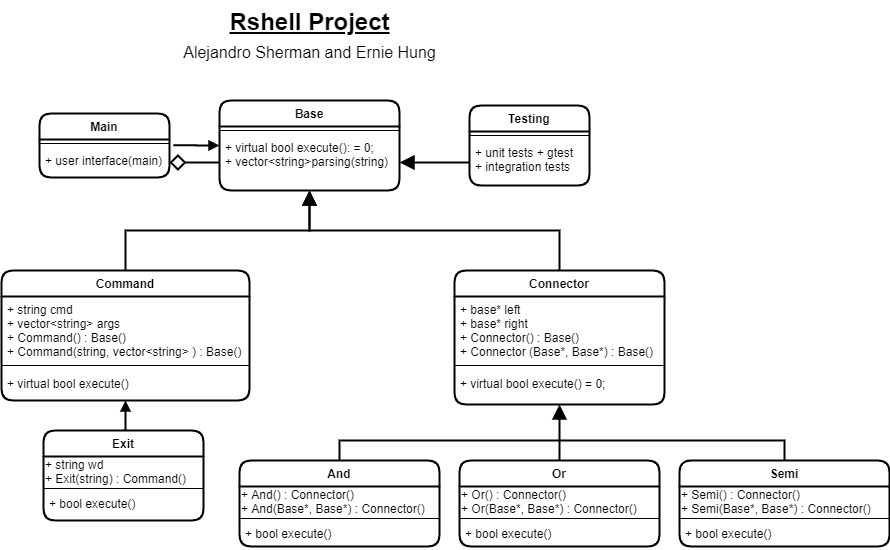
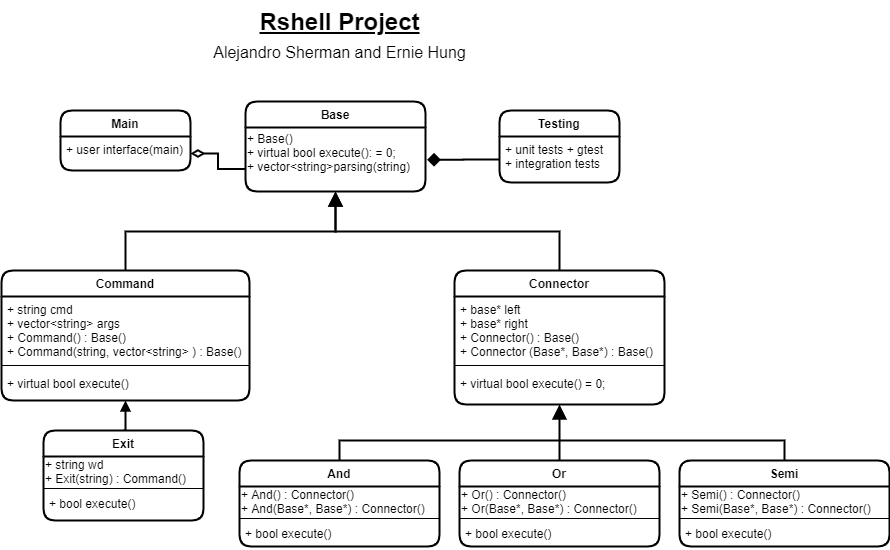
Updated readme and diagram

Changed region(s): [[0.0303, 0.1545, 0.6978, 0.4327], [0.2124, 0.0, 0.5157, 0.1236]]

diff --git a/README.md b/README.md
@@ -2,90 +2,93 @@
 > Winter 2020 - Alejandro Sherman (862062898) and Ernie Hung (862153636)
 
 ## Introduction
-Our project is the implementation of a basic command shell, complete with a user interface, and functionality of certain commands and connectors. The shell will allow for the use of standard commands after they are input by a user, such as `exit`, as well as the use of three connectors that allow users to execute multiple commands at once. These connectors are "||" (or), "&&" (and), and ";" (semi). The composite design pattern will be utilized to implement the commands and the connectors. The project will be created in C++ and features will be implemented using C++ classes and functions.
+Our project is the implementation of a basic command shell, complete with a user interface, and functionality of certain commands and connectors. The shell allows for the use of standard commands after they are input by a user, such as `exit`, as well as the use of three connectors that allow users to execute multiple commands at once. These connectors are "||" (or), "&&" (and), and ";" (semi). The composite design pattern was utilized to implement the commands and the connectors, both inheriting from the base class, and each being superclasses of their own. The project is made in C++ and features have been implemented using C++ classes and functions.
 
 ## Diagram
 ![OMT_Diagram]()
 
 ## Classes
-### user.cpp
+### main.cpp
 The area that the user interacts with when they use the shell
 
+* `#includes` all the other classes from the header folder
 * displays the command prompt `guest@rshell:~$`
-* takes the user input and sends it where it needs to go
-* `echo()` : prints the input back to the user
-* `execute()` : a self designed function that performs the desired task
+* takes the user input and executes it according to the general Linux shell functionality
+* user's input is echoed as they type it
 
 ### base.h
-A class that other frameworks build off of
+A class that other frameworks build off of, an abstract base class
 
-* comprised of virtual functions as the class is meant to be used as a superclass
-* `parse()` : parses user input using tokens
-* parse can be rewritten by other classes, but is optional
-* `execute()` : a pure virtual function as every subclass must implement it's own execute function
+* `Base()` : simple constructor
+* comprised of a virtual function and a pure virtual function
+* class is designed to be a superclass only
+* `parsing(string)` : takes user input as a string, parses it, and returns a vector of string tokens
+* subsequent classes inherit parsing
+* any input following pound: `#` are ignored in parsing
+* `execute() = 0;` : a pure virtual function as every subclass must implement it's own execute function
 
-### test.cpp
-A preliminary test of the later `execute` functions and the base class's parse function
+### Testing
+Less of a class, and more of a representation of the testing frameworks used
 
-* `parse()` : inherited from base
-* `execute()` : can be changed to fit various tests
+* `unit_tests` : individually designed tests made to test specific functions program and ran together using the google test submodule
+* `integration_tests` : I/O tests that test the overall combined functionality of the completed program and has a suite of tests each focusing on a certain combination of features
 
 ### command.h
-A class that commands specialize from
+A class that creates and executes commands, and allows for the special command `exit` to inherit from
 
-* utilizes a vector of strings to determine what valid command is to be invoked
-* `Command()` : command constructor
-* `execute()` : a self designed function that performs the desired task
-* `parse()` : a parse function for use specifically in the command architecture
+* Commands are created in the main using the format `new Command(string, vector<strings)`
+* `Command() : Base()` + `Command(string, vector<string> ) : Base()`: command constructors
+* On construction the command is passed in as a string, and the arguments are passed in as a vector of strings
+* `execute()` : creates a fork and attempts to execute the command, if succeeds returns true, and returns false otherwise
+* `parsing(string)` : inherited from the base class
 
 ### connector.h
 A class that connectors specialize from
 
 * utilizes two objects of the base class to account for a left and right of the operator
-* `Connector (Base*, Base*) : Base()` : connector constructor
-* `execute()` : a self designed function that performs the desired task
-* `parse()` : a parse function for use specifically in the connector architecture
+* `Connector() : Base()` + `Connector (Base*, Base*) : Base()` : connector constructors
+* `execute() = 0;` : redeclared as a pure virtual function so that every operator that inherits from this class must define it's own execute
 
-### exit.cpp
+
+### exit.h
 A self designed rshell command to exit the rshell
 
-* `execute()` : a self designed function that exits the rshell
+* an exit object is created in the main when a command is created that has "exit" as the passed in command
+* `execute()` : a self designed function that exits the rshell, done by calling exit(0);
 * inherits command defined features
 * the rshell will keep running until this command is entered
-
-### comment.cpp
-A self designed rshell command flag to indicate to ingore the following input
-
-* `execute()` : a self designed function that ignores anything following the "#"
-* inherits command defined features
-* once a "#" is encountered anything in the following line is treated as empty
 
 ### and.cpp
 A class that implements the rshell "&&" connector
 
-* `execute()` : performs the commands according to the and operator
-* inherits connector defined features
-* must utilize the command class to carry out the commands
+* `And() : Connector` + `And(Base*, Base*) : Connector()` : And constructors
+* utilizes the left and right base pointers from the connector class
+* `execute()` : executes the commands according to the and operator, as such both commands on the left and right only execute when both commands are valid
+* commands are executed by utilizing the command class execute
 
 ### or.cpp
 A class that implements the rshell "||" connector
 
-* `execute()` : performs the commands according to the or operator
-* inherits connector defined features
-* must utilize the command class to carry out the commands
+* `Or() : Connector` + `Or(Base*, Base*) : Connector()` : Or constructors
+* utilizes the left and right base pointers from the connector class
+* `execute()` : executes the commands according to the or operator, only one command executes if it is valid
+* commands are executed by utilizing the command class execute
 
 ### semi.cpp
 A class that implements the rshell ";" connector
 
-* `execute()` : performs the commands according to the semicolon operator
-* inherits connector defined features
-* must utilize the command class to carry out the commands
+* `Semi() : Connector` + `Semi(Base*, Base*) : Connector()` : Semi constructors
+* utilizes the left and right base pointers from the connector class
+* `execute()` : executes the commands according to the semicolon operator, both commands try to execute no matter what
+* commands are executed by utilizing the command class execute
 
 ## Prototypes/Research
-* fork() is used to create a new process, called child process
-* under the child process, execvp() allows the child process to run a different program
-* waitpid() allows the parent process to wait for the child process to finish and terminated before proceeding, this prevents memory leaks and zombie process from happening
-* During the use of rshell, when a new command is received, the parent process will fork and create a new child process, which will then execute parse using a different delimiter to separate the user commands into different tokens. According to the tokens received, commands will be sent to different classes for further actions. While the process is being executed by the child, the parent process will wait for the child to finish in order to continue.
+* `fork()` is used to create a new process, called child process
+* under the child process, `execvp()` allows the child process to run a different program
+* `waitpid()` allows the parent process to wait for the child process to finish and terminate before proceeding, this prevents memory leaks and zombie process from happening
+* `WIFEXITED(status)` and `WEXITSTATUS(status)` are helpful functions that can more easily recognize the return status of commands in the program.
+* During the use of rshell, when a new command is executed, the parent process will fork and create a new child process, which will then attempt to perform the command.
+* According to the tokens received, commands will be created and executed depending on if valid or invalid, and what operators are present. While the process is being executed by the child, the parent process will wait for the child to finish in order to continue.
 
 ## Development and Testing Roadmap
 [#1](../../issues/1) Implement and test: Base Class
@@ -96,7 +99,7 @@ A class that implements the rshell ";" connector
 
 [#4](../../issues/4) Implement and test: Exit
 
-[#5](../../issues/5) Implement and test: Comment
+[#5](../../issues/5) Implement and test: Comment(in parsing)
 
 [#6](../../issues/6) Implement and test: And
 
@@ -104,4 +107,4 @@ A class that implements the rshell ";" connector
 
 [#8](../../issues/8) Implement and test: Semi
 
-[#9](../../issues/9) Implement and test: User(main)
+[#9](../../issues/9) Implement and test: Main(user interface)
